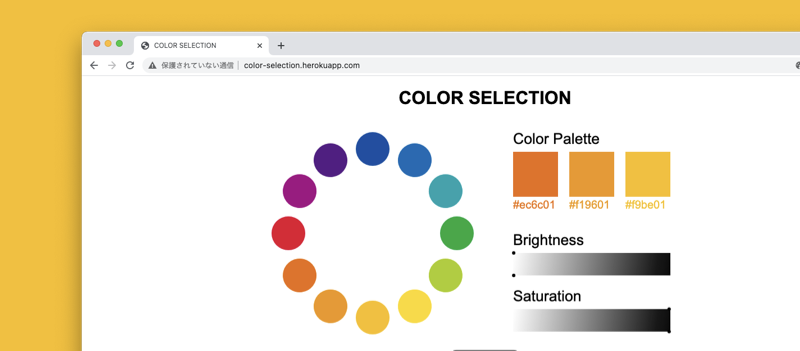
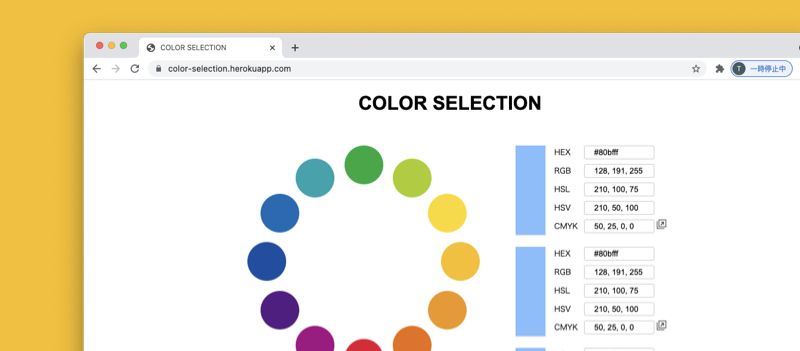
color-selectionを更新

Changed region(s): [[0.3125, 0.3704, 0.8438, 1.0], [0.0938, 0.0855, 1.0, 1.0], [0.4375, 0.2564, 0.7188, 0.3134]]

diff --git a/works/color-selection.html b/works/color-selection.html
@@ -36,7 +36,7 @@
 				
 				<div class="works_contents">
 					<div class="block_l">
-						<img src="../img/color_selection/color_selection_web_ver3.gif">
+						<img src="../img/color_selection/color_selection_web_ver4.gif">
 						
 					</div>
 					
